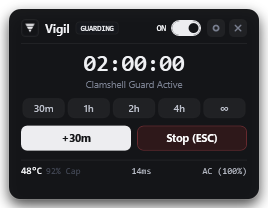
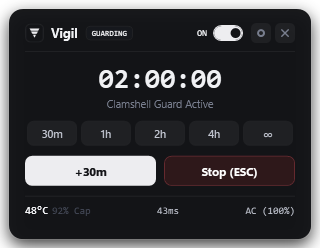
style: refine menu bar popover with spacious layout and non-ai-slop minimalism

diff --git a/src/Vigil/Views/FlyoutWindow.xaml b/src/Vigil/Views/FlyoutWindow.xaml
@@ -2,8 +2,8 @@
         xmlns="http://schemas.microsoft.com/winfx/2006/xaml/presentation"
         xmlns:x="http://schemas.microsoft.com/winfx/2006/xaml"
         Title="Vigil"
-        Width="268"
-        Height="208"
+        Width="320"
+        Height="248"
         WindowStyle="None"
         AllowsTransparency="True"
         Background="Transparent"
@@ -16,15 +16,15 @@
     <!-- Window Outer DropShadow Canvas (Draggable Anywhere) -->
     <Border Margin="8"
             Background="#F7121316"
-            CornerRadius="12"
+            CornerRadius="14"
             BorderBrush="{StaticResource BrushBorderLight}"
             BorderThickness="1"
             MouseLeftButtonDown="Window_MouseDown">
         <Border.Effect>
-            <DropShadowEffect BlurRadius="20" Direction="270" ShadowDepth="6" Opacity="0.75" Color="#000000" />
+            <DropShadowEffect BlurRadius="24" Direction="270" ShadowDepth="6" Opacity="0.8" Color="#000000" />
         </Border.Effect>
 
-        <Grid Margin="12,10">
+        <Grid Margin="16,14">
             <Grid.RowDefinitions>
                 <RowDefinition Height="Auto" /> <!-- 0: Header -->
                 <RowDefinition Height="Auto" /> <!-- 1: Divider -->
@@ -35,7 +35,7 @@
                 <RowDefinition Height="Auto" /> <!-- 6: Micro Telemetry Footer -->
             </Grid.RowDefinitions>
 
-            <!-- 0: Header (Compact Menu Bar Style) -->
+            <!-- 0: Header (Spacious, Minimalist, Hardware-grade) -->
             <Grid Grid.Row="0">
                 <Grid.ColumnDefinitions>
                     <ColumnDefinition Width="*" />
@@ -43,61 +43,61 @@
                 </Grid.ColumnDefinitions>
 
                 <StackPanel Orientation="Horizontal" VerticalAlignment="Center">
-                    <Border Width="18" Height="18" CornerRadius="4" Background="{StaticResource BrushSurfaceCard}" BorderBrush="{StaticResource BrushBorderHairline}" BorderThickness="1" Margin="0,0,6,0" ClipToBounds="True">
+                    <Border Width="19" Height="19" CornerRadius="5" Background="{StaticResource BrushSurfaceCard}" BorderBrush="{StaticResource BrushBorderHairline}" BorderThickness="1" Margin="0,0,7,0" ClipToBounds="True">
                         <Image Source="pack://application:,,,/assets/icon.png" RenderOptions.BitmapScalingMode="HighQuality" Stretch="UniformToFill" Margin="0.5" />
                     </Border>
-                    <TextBlock Text="Vigil" FontSize="11.5" FontWeight="Bold" Foreground="{StaticResource BrushTextWhite}" VerticalAlignment="Center" Margin="0,0,6,0" />
-                    <Border x:Name="PillAutoBadge" Background="#16181D" BorderBrush="{StaticResource BrushBorderHairline}" BorderThickness="1" CornerRadius="3" Padding="4,1" VerticalAlignment="Center">
-                        <TextBlock x:Name="TxtAutoPilotBadge" Text="STANDBY" FontFamily="{StaticResource FontMono}" FontSize="7.5" FontWeight="Bold" Foreground="{StaticResource BrushTextMuted}" />
+                    <TextBlock Text="Vigil" FontSize="12.5" FontWeight="Bold" Foreground="{StaticResource BrushTextWhite}" VerticalAlignment="Center" Margin="0,0,8,0" />
+                    <Border x:Name="PillAutoBadge" Background="#16181D" BorderBrush="{StaticResource BrushBorderHairline}" BorderThickness="1" CornerRadius="4" Padding="5,1.5" VerticalAlignment="Center">
+                        <TextBlock x:Name="TxtAutoPilotBadge" Text="STANDBY" FontFamily="{StaticResource FontMono}" FontSize="8" FontWeight="Bold" Foreground="{StaticResource BrushTextMuted}" />
                     </Border>
                 </StackPanel>
 
                 <!-- Controls: Master Switch, Settings & Close -->
                 <StackPanel Grid.Column="1" Orientation="Horizontal" VerticalAlignment="Center">
-                    <TextBlock x:Name="TxtMasterSwitchLabel" Text="OFF" FontFamily="{StaticResource FontMono}" FontSize="8.5" FontWeight="Bold" Foreground="{StaticResource BrushTextDim}" Margin="0,0,5,0" VerticalAlignment="Center" />
-                    <CheckBox x:Name="ChkMasterVigil" Style="{StaticResource BentoToggleSwitch}" IsChecked="False" VerticalAlignment="Center" ToolTip="Toggle Clamshell Guard ON / OFF" Margin="0,0,6,0" />
-                    <Button x:Name="BtnSettings" Click="BtnSettings_Click" Style="{StaticResource WindowCtrlBtn}" Width="18" Height="18" ToolTip="Configuration &amp; Settings" Margin="0,0,4,0">
-                        <Path Data="M8 5a3 3 0 1 0 0 6 3 3 0 0 0 0-6zm-6 3a6 6 0 1 1 12 0 6 6 0 0 1-12 0z" Fill="{Binding Path=Foreground, RelativeSource={RelativeSource AncestorType=Button}}" Width="7" Height="7" Stretch="Uniform" />
+                    <TextBlock x:Name="TxtMasterSwitchLabel" Text="OFF" FontFamily="{StaticResource FontMono}" FontSize="9" FontWeight="Bold" Foreground="{StaticResource BrushTextDim}" Margin="0,0,6,0" VerticalAlignment="Center" />
+                    <CheckBox x:Name="ChkMasterVigil" Style="{StaticResource BentoToggleSwitch}" IsChecked="False" VerticalAlignment="Center" ToolTip="Toggle Clamshell Guard ON / OFF" Margin="0,0,8,0" />
+                    <Button x:Name="BtnSettings" Click="BtnSettings_Click" Style="{StaticResource WindowCtrlBtn}" Width="20" Height="20" ToolTip="Configuration &amp; Settings" Margin="0,0,4,0">
+                        <Path Data="M8 5a3 3 0 1 0 0 6 3 3 0 0 0 0-6zm-6 3a6 6 0 1 1 12 0 6 6 0 0 1-12 0z" Fill="{Binding Path=Foreground, RelativeSource={RelativeSource AncestorType=Button}}" Width="8" Height="8" Stretch="Uniform" />
                     </Button>
-                    <Button x:Name="BtnCloseFlyout" Click="BtnCloseFlyout_Click" Style="{StaticResource WindowCtrlBtn}" Width="18" Height="18" ToolTip="Close (ESC)">
-                        <Path Data="M3 3 L11 11 M11 3 L3 11" Stroke="{Binding Path=Foreground, RelativeSource={RelativeSource AncestorType=Button}}" StrokeThickness="1.5" StrokeStartLineCap="Round" StrokeEndLineCap="Round" Width="7" Height="7" Stretch="Uniform" />
+                    <Button x:Name="BtnCloseFlyout" Click="BtnCloseFlyout_Click" Style="{StaticResource WindowCtrlBtn}" Width="20" Height="20" ToolTip="Close (ESC)">
+                        <Path Data="M3 3 L11 11 M11 3 L3 11" Stroke="{Binding Path=Foreground, RelativeSource={RelativeSource AncestorType=Button}}" StrokeThickness="1.5" StrokeStartLineCap="Round" StrokeEndLineCap="Round" Width="8" Height="8" Stretch="Uniform" />
                     </Button>
                 </StackPanel>
             </Grid>
 
             <!-- 1: Divider -->
-            <Border Grid.Row="1" Height="1" Background="{StaticResource BrushBorderHairline}" Margin="0,6,0,6" />
+            <Border Grid.Row="1" Height="1" Background="{StaticResource BrushBorderHairline}" Margin="0,8,0,10" />
 
-            <!-- 2: Countdown Timer & Subtitle (Centered, Spacious) -->
-            <StackPanel Grid.Row="2" HorizontalAlignment="Center" Margin="0,0,0,6">
-                <TextBlock x:Name="TxtTimerDigits" Text="--:--:--" FontFamily="{StaticResource FontMono}" FontSize="23" FontWeight="Bold" Foreground="{StaticResource BrushTextWhite}" HorizontalAlignment="Center" />
-                <TextBlock x:Name="TxtTargetStatus" Text="System Standby" FontSize="9.5" Foreground="{StaticResource BrushTextMuted}" HorizontalAlignment="Center" Margin="0,1,0,0" />
+            <!-- 2: Countdown Timer & Subtitle (Spacious, High Legibility) -->
+            <StackPanel Grid.Row="2" HorizontalAlignment="Center" Margin="0,0,0,10">
+                <TextBlock x:Name="TxtTimerDigits" Text="--:--:--" FontFamily="{StaticResource FontMono}" FontSize="28" FontWeight="Bold" Foreground="{StaticResource BrushTextWhite}" HorizontalAlignment="Center" />
+                <TextBlock x:Name="TxtTargetStatus" Text="System Standby" FontSize="10.5" Foreground="{StaticResource BrushTextMuted}" HorizontalAlignment="Center" Margin="0,2,0,0" />
             </StackPanel>
 
-            <!-- 3: Duration Presets (Clean Chips) -->
-            <UniformGrid Grid.Row="3" Columns="5" Margin="0,0,0,6">
-                <Button Click="Preset_Click" Tag="1800" Content="30m" Style="{StaticResource BentoPresetBtn}" Height="20" FontSize="10" Padding="0" />
-                <Button Click="Preset_Click" Tag="3600" Content="1h" Style="{StaticResource BentoPresetBtn}" Height="20" FontSize="10" Padding="0" />
-                <Button Click="Preset_Click" Tag="7200" Content="2h" Style="{StaticResource BentoPresetBtn}" Height="20" FontSize="10" Padding="0" />
-                <Button Click="Preset_Click" Tag="14400" Content="4h" Style="{StaticResource BentoPresetBtn}" Height="20" FontSize="10" Padding="0" />
-                <Button Click="Preset_Click" Tag="-1" Content="∞" Style="{StaticResource BentoPresetBtn}" Height="20" FontSize="10" Padding="0" />
+            <!-- 3: Duration Presets (Comfortable Chips) -->
+            <UniformGrid Grid.Row="3" Columns="5" Margin="0,0,0,10">
+                <Button Click="Preset_Click" Tag="1800" Content="30m" Style="{StaticResource BentoPresetBtn}" Height="25" FontSize="10.5" Margin="2,0" />
+                <Button Click="Preset_Click" Tag="3600" Content="1h" Style="{StaticResource BentoPresetBtn}" Height="25" FontSize="10.5" Margin="2,0" />
+                <Button Click="Preset_Click" Tag="7200" Content="2h" Style="{StaticResource BentoPresetBtn}" Height="25" FontSize="10.5" Margin="2,0" />
+                <Button Click="Preset_Click" Tag="14400" Content="4h" Style="{StaticResource BentoPresetBtn}" Height="25" FontSize="10.5" Margin="2,0" />
+                <Button Click="Preset_Click" Tag="-1" Content="∞" Style="{StaticResource BentoPresetBtn}" Height="25" FontSize="11" Margin="2,0" />
             </UniformGrid>
 
-            <!-- 4: Action Buttons (Two Wide Columns) -->
-            <Grid Grid.Row="4" Margin="0,0,0,4">
+            <!-- 4: Action Buttons (Two Wide, Comfortable Touch Targets) -->
+            <Grid Grid.Row="4" Margin="0,0,0,8">
                 <Grid.ColumnDefinitions>
                     <ColumnDefinition Width="*" />
-                    <ColumnDefinition Width="6" />
+                    <ColumnDefinition Width="8" />
                     <ColumnDefinition Width="*" />
                 </Grid.ColumnDefinitions>
-                <Button Grid.Column="0" x:Name="BtnAdd30" Click="BtnAdd30_Click" Content="+30m" Style="{StaticResource BentoActionBtn}" Height="25" FontSize="10.5" />
-                <Button Grid.Column="2" x:Name="BtnEndSession" Click="BtnEndSession_Click" Content="Stop (ESC)" Style="{StaticResource BentoDangerBtn}" Height="25" FontSize="10.5" />
+                <Button Grid.Column="0" x:Name="BtnAdd30" Click="BtnAdd30_Click" Content="+30m" Style="{StaticResource BentoActionBtn}" Height="30" FontSize="11.5" />
+                <Button Grid.Column="2" x:Name="BtnEndSession" Click="BtnEndSession_Click" Content="Stop (ESC)" Style="{StaticResource BentoDangerBtn}" Height="30" FontSize="11.5" />
             </Grid>
 
             <!-- 5: Divider -->
-            <Border Grid.Row="5" Height="1" Background="{StaticResource BrushBorderHairline}" Margin="0,5,0,5" />
+            <Border Grid.Row="5" Height="1" Background="{StaticResource BrushBorderHairline}" Margin="0,2,0,8" />
 
-            <!-- 6: Micro Telemetry Footer (Single Concise Line) -->
+            <!-- 6: Micro Telemetry Footer (Clean, High-Legibility Telemetry) -->
             <Grid Grid.Row="6">
                 <Grid.ColumnDefinitions>
                     <ColumnDefinition Width="Auto" />
@@ -107,15 +107,15 @@
 
                 <!-- Left: CPU Package -->
                 <StackPanel Orientation="Horizontal" VerticalAlignment="Center">
-                    <TextBlock x:Name="TxtTempDigits" Text="--°C" FontFamily="{StaticResource FontMono}" FontSize="9.5" FontWeight="Bold" Foreground="{StaticResource BrushTextWhite}" Margin="0,0,4,0" />
-                    <TextBlock x:Name="TxtTempStatus" Text="92% Cap" FontFamily="{StaticResource FontMono}" FontSize="9" Foreground="{StaticResource BrushTextDim}" VerticalAlignment="Center" />
+                    <TextBlock x:Name="TxtTempDigits" Text="--°C" FontFamily="{StaticResource FontMono}" FontSize="10.5" FontWeight="Bold" Foreground="{StaticResource BrushTextWhite}" Margin="0,0,4,0" />
+                    <TextBlock x:Name="TxtTempStatus" Text="92% Cap" FontFamily="{StaticResource FontMono}" FontSize="10" Foreground="{StaticResource BrushTextDim}" VerticalAlignment="Center" />
                 </StackPanel>
 
                 <!-- Middle: Wi-Fi -->
-                <TextBlock Grid.Column="1" x:Name="TxtWifiStatus" Text="14ms" FontFamily="{StaticResource FontMono}" FontSize="9" Foreground="{StaticResource BrushTextSilver}" HorizontalAlignment="Center" VerticalAlignment="Center" />
+                <TextBlock Grid.Column="1" x:Name="TxtWifiStatus" Text="14ms" FontFamily="{StaticResource FontMono}" FontSize="10" Foreground="{StaticResource BrushTextSilver}" HorizontalAlignment="Center" VerticalAlignment="Center" />
 
                 <!-- Right: Battery/Power -->
-                <TextBlock Grid.Column="2" x:Name="TxtBatStatus" Text="AC (100%)" FontFamily="{StaticResource FontMono}" FontSize="9" Foreground="{StaticResource BrushTextSilver}" VerticalAlignment="Center" />
+                <TextBlock Grid.Column="2" x:Name="TxtBatStatus" Text="AC (100%)" FontFamily="{StaticResource FontMono}" FontSize="10" Foreground="{StaticResource BrushTextSilver}" VerticalAlignment="Center" />
             </Grid>
         </Grid>
     </Border>

diff --git a/src/Vigil/App.xaml b/src/Vigil/App.xaml
@@ -130,7 +130,7 @@
                     <ControlTemplate TargetType="Button">
                         <Border x:Name="ActionBorder" 
                                 Background="{TemplateBinding Background}" 
-                                CornerRadius="6">
+                                CornerRadius="7">
                             <ContentPresenter HorizontalAlignment="Center" VerticalAlignment="Center" />
                         </Border>
                         <ControlTemplate.Triggers>
@@ -164,7 +164,7 @@
                                 Background="{TemplateBinding Background}" 
                                 BorderBrush="{TemplateBinding BorderBrush}" 
                                 BorderThickness="{TemplateBinding BorderThickness}" 
-                                CornerRadius="6">
+                                CornerRadius="7">
                             <ContentPresenter HorizontalAlignment="Center" VerticalAlignment="Center" />
                         </Border>
                         <ControlTemplate.Triggers>
@@ -186,7 +186,7 @@
         <Style x:Key="BentoStopActiveBtn" TargetType="Button">
             <Setter Property="Cursor" Value="Hand" />
             <Setter Property="FontFamily" Value="{StaticResource FontPlusJakarta}" />
-            <Setter Property="FontSize" Value="11" />
+            <Setter Property="FontSize" Value="11.5" />
             <Setter Property="FontWeight" Value="Bold" />
             <Setter Property="Foreground" Value="#FFFFFF" />
             <Setter Property="Background" Value="#2E181A" />
@@ -200,7 +200,7 @@
                                 Background="{TemplateBinding Background}" 
                                 BorderBrush="{TemplateBinding BorderBrush}" 
                                 BorderThickness="{TemplateBinding BorderThickness}" 
-                                CornerRadius="6">
+                                CornerRadius="7">
                             <ContentPresenter HorizontalAlignment="Center" VerticalAlignment="Center" />
                         </Border>
                         <ControlTemplate.Triggers>

diff --git a/README.md b/README.md
@@ -29,8 +29,8 @@
 </p>
 
 <p align="center">
-  <img src="docs/images/vigil-ui-active.png" alt="Vigil Active Guard (268 x 208)" width="260">&nbsp;&nbsp;&nbsp;&nbsp;
-  <img src="docs/images/vigil-ui-standby.png" alt="Vigil Standby Mode (268 x 208)" width="260">
+  <img src="docs/images/vigil-ui-active.png" alt="Vigil Active Guard (320 x 248)" width="300">&nbsp;&nbsp;&nbsp;&nbsp;
+  <img src="docs/images/vigil-ui-standby.png" alt="Vigil Standby Mode (320 x 248)" width="300">
 </p>
 
 > **Important**: Always operate your laptop on a stable, well-ventilated desk surface, never inside a closed backpack or soft bed. Vigil keeps the CPU awake and throttles voltage, but hardware still requires ambient airflow.
@@ -63,7 +63,7 @@ Vigil provides four immediate, fail-safe ways to cancel an active guard session:
 
 ## Features
 
-- **Compact Menu Bar Interface**: Ultra-sleek 268 × 208 px popover inspired by Insomnia on macOS, Dieter Rams, and Teenage Engineering. Floats right above your taskbar system tray with an Obsidian (`#131417`) and Moon-White (`#EDEDF0`) palette. 100% clean English typography with zero AI-slop.
+- **Compact Menu Bar Interface**: Ultra-sleek 320 × 248 px popover inspired by Insomnia on macOS, Dieter Rams, and Teenage Engineering. Floats right above your taskbar system tray with an Obsidian (`#131417`) and Moon-White (`#EDEDF0`) palette. 100% clean English typography with zero AI-slop.
 - **Master Hardware Switch**: Direct `ON` / `OFF` toggle in the top-right header for instant manual protection without configuring a timer.
 - **Quick Preset Chips**: Jump into `30m`, `1h`, `2h`, `4h`, or indefinite (`∞`) protection with a single click.
 - **Safe Display Handling**: Display blackout on session start is disabled by default (`turnDisplayOffOnSession = false`), ensuring your screen never goes unexpectedly black while you work. When the physical laptop lid is closed, the display backlight sleeps naturally and wakes instantly on lid open.
